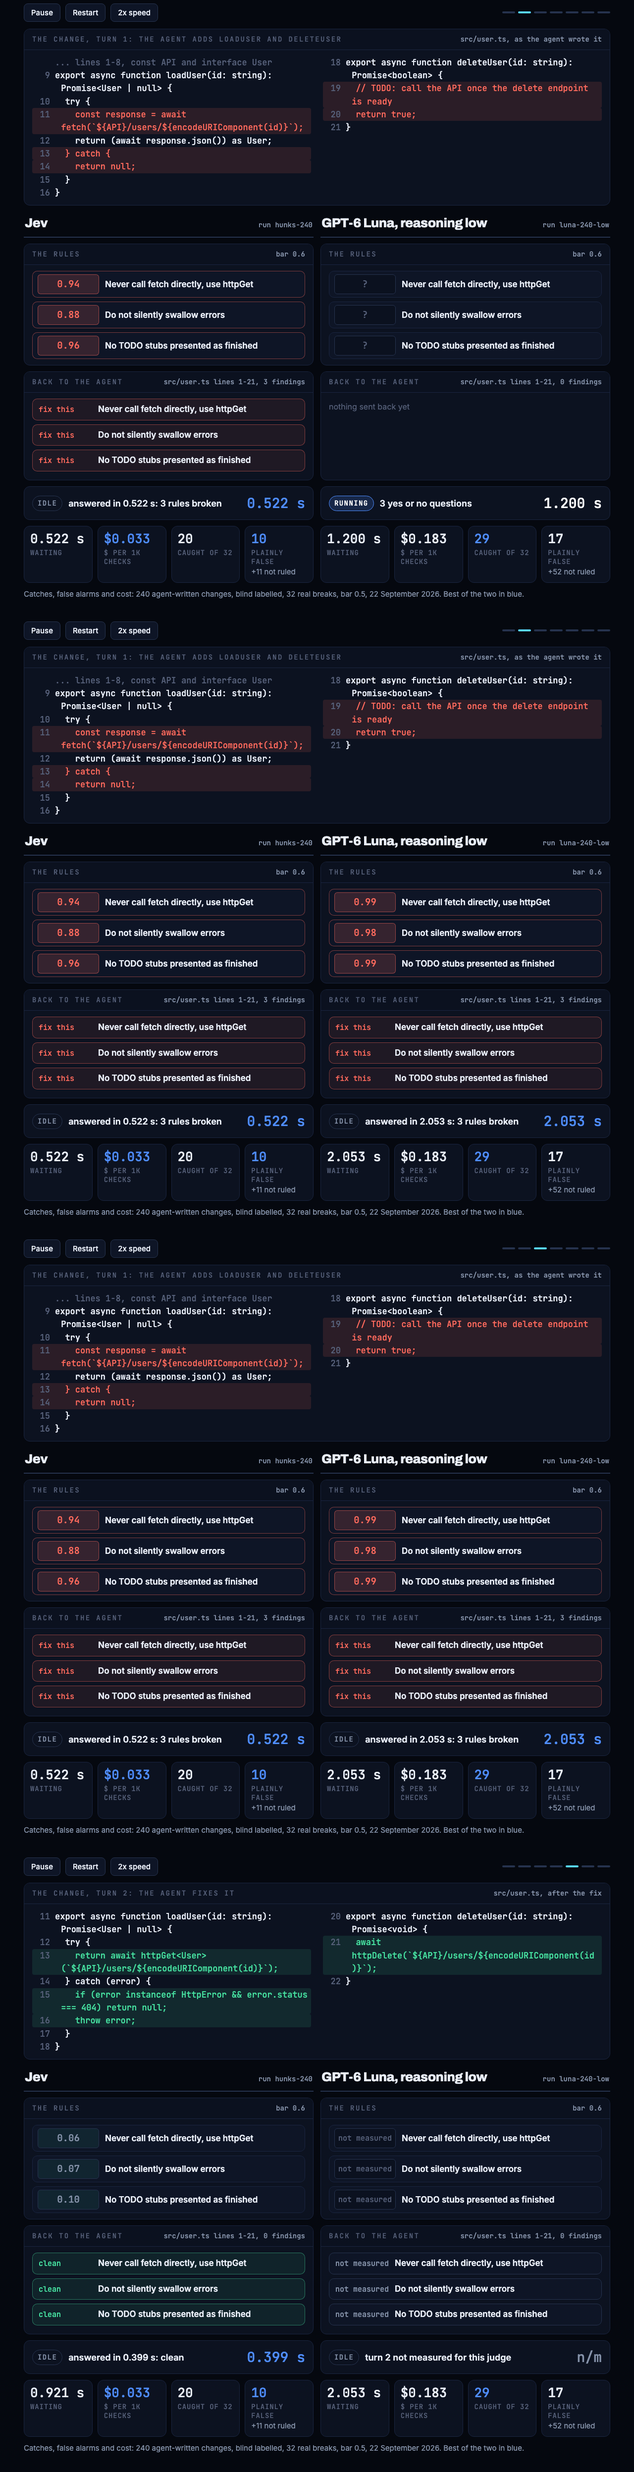
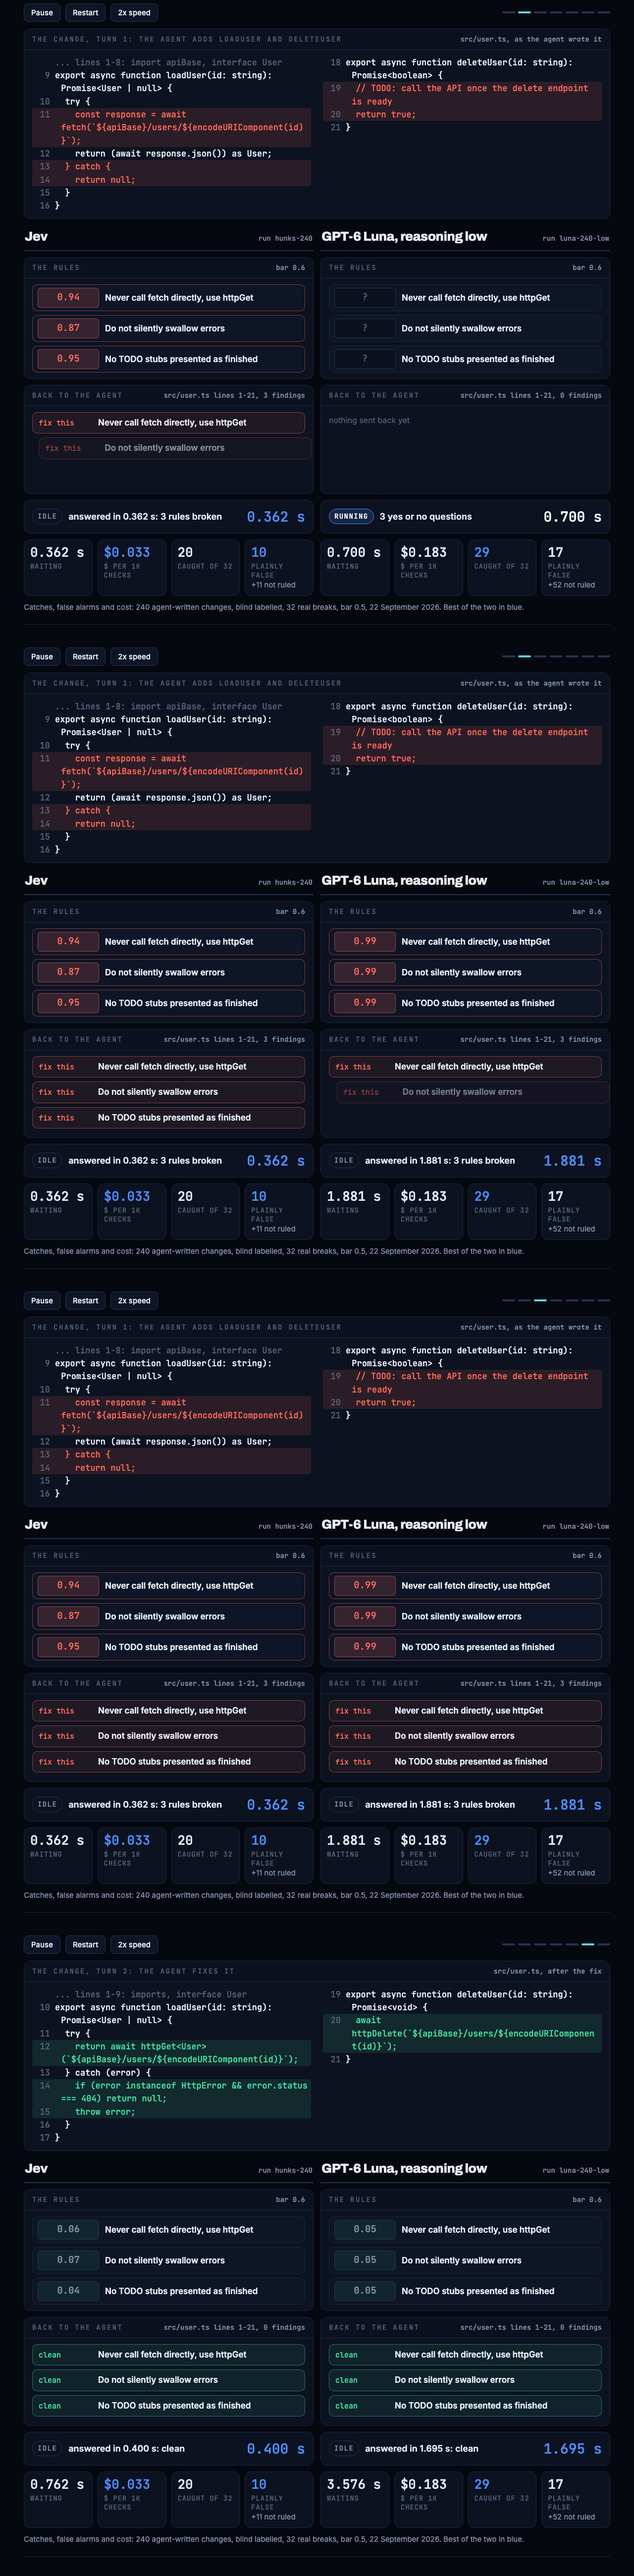
Demo page, GIF and stills rebuilt on the fixed turns
The two-way page now shows the current turns (the config import at the top, apiBase in every
URL, the 21-line repair) and takes every number from the regenerated summary.json, both turns
measured in one sitting at 20:46Z and 20:47Z: Jev answers in 0.362 s and 0.400 s, GPT-6 Luna
with low reasoning in 1.881 s and 1.695 s. The score chips are the per-rule medians of the 5
recorded runs (Jev 0.94, 0.87, 0.95 then 0.06, 0.07, 0.04; Luna 0.99 on all three, then 0.05
on all three). Luna's second turn is measured now, so its column reads clean like Jev's.

The GIF (one 21.4 s loop at 1x, 1280x1540) and the four stills are recaptured; the capture is
50 px taller because the new fetch line wraps once more. The demo README's numbers, latency
table and quality table are regenerated from the same file, and the rebuild note is removed.

diff --git a/examples/demo/page/index.html b/examples/demo/page/index.html
@@ -117,7 +117,7 @@ code{font-family:var(--mono);font-size:.92em}
 <script>
 (function(){
 "use strict";
-const D = {"bar":0.6,"piece":{"file":"src/user.ts","from":1,"to":21},"rules":["Never call fetch directly, use httpGet","Do not silently swallow errors","No TODO stubs presented as finished"],"change":{"from":9,"lines":["export async function loadUser(id: string): Promise<User | null> {","  try {","    const response = await fetch(`${API}/users/${encodeURIComponent(id)}`);","    return (await response.json()) as User;","  } catch {","    return null;","  }","}","","export async function deleteUser(id: string): Promise<boolean> {","  // TODO: call the API once the delete endpoint is ready","  return true;","}"],"bad":[11,13,14,19,20]},"fix":{"from":11,"lines":["export async function loadUser(id: string): Promise<User | null> {","  try {","    return await httpGet<User>(`${API}/users/${encodeURIComponent(id)}`);","  } catch (error) {","    if (error instanceof HttpError && error.status === 404) return null;","    throw error;","  }","}","","export async function deleteUser(id: string): Promise<void> {","  await httpDelete(`${API}/users/${encodeURIComponent(id)}`);","}"],"good":[13,15,16,21]},"models":[{"key":"jev","label":"Jev","judge":"Jev","run":"hunks-240","t1":{"ms":522,"scores":[0.94,0.88,0.96]},"t2":{"ms":398.9,"scores":[0.06,0.07,0.1]},"per1000":0.03294909251101322,"caught":20,"real":32,"plainlyFalse":10,"notRuled":11,"bar":0.5},{"key":"low","label":"GPT-6 Luna, reasoning low","judge":"GPT-6 Luna","run":"luna-240-low","t1":{"ms":2053,"scores":[0.99,0.98,0.99]},"t2":null,"per1000":0.18255124378109452,"caught":29,"real":32,"plainlyFalse":17,"notRuled":52,"bar":0.5}],"session":"2026-09-22T19:58:47.376Z","t2Session":"2026-09-22T20:10:39.749Z"};
+const D = {"bar":0.6,"piece":{"file":"src/user.ts","from":1,"to":21},"rules":["Never call fetch directly, use httpGet","Do not silently swallow errors","No TODO stubs presented as finished"],"change":{"from":9,"lines":["export async function loadUser(id: string): Promise<User | null> {","  try {","    const response = await fetch(`${apiBase}/users/${encodeURIComponent(id)}`);","    return (await response.json()) as User;","  } catch {","    return null;","  }","}","","export async function deleteUser(id: string): Promise<boolean> {","  // TODO: call the API once the delete endpoint is ready","  return true;","}"],"bad":[11,13,14,19,20],"gap":"lines 1-8: import apiBase, interface User"},"fix":{"from":10,"lines":["export async function loadUser(id: string): Promise<User | null> {","  try {","    return await httpGet<User>(`${apiBase}/users/${encodeURIComponent(id)}`);","  } catch (error) {","    if (error instanceof HttpError && error.status === 404) return null;","    throw error;","  }","}","","export async function deleteUser(id: string): Promise<void> {","  await httpDelete(`${apiBase}/users/${encodeURIComponent(id)}`);","}"],"good":[12,14,15,20],"gap":"lines 1-9: imports, interface User"},"models":[{"key":"jev","label":"Jev","judge":"Jev","run":"hunks-240","t1":{"ms":362.3,"scores":[0.94,0.87,0.95],"runsMs":[406.1,355.8,320,575.6,362.3],"runScores":[[0.94,0.87,0.95],[0.93,0.88,0.96],[0.94,0.87,0.95],[0.94,0.87,0.95],[0.93,0.87,0.95]]},"t2":{"ms":400.1,"scores":[0.06,0.07,0.04],"runsMs":[425.5,348.2,375.4,431.2,400.1],"runScores":[[0.06,0.07,0.04],[0.05,0.07,0.04],[0.06,0.07,0.04],[0.06,0.07,0.04],[0.06,0.07,0.04]]},"per1000":0.03294909251101322,"caught":20,"real":32,"plainlyFalse":10,"notRuled":11,"bar":0.5},{"key":"low","label":"GPT-6 Luna, reasoning low","judge":"GPT-6 Luna","run":"luna-240-low","t1":{"ms":1881,"scores":[0.99,0.99,0.99],"runsMs":[1602,1922,1857,1881,1887],"runScores":[[0.99,0.99,0.99],[0.99,0.99,0.99],[0.99,0.99,0.99],[0.99,0.98,0.99],[0.99,0.99,0.99]]},"t2":{"ms":1695,"scores":[0.05,0.05,0.05],"runsMs":[1759,1371,2455,1695,1539],"runScores":[[0.05,0.05,0.05],[0.05,0.05,0.05],[0.05,0.05,0.05],[0.05,0.05,0.05],[0.05,0.05,0.05]]},"per1000":0.18255124378109452,"caught":29,"real":32,"plainlyFalse":17,"notRuled":52,"bar":0.5}],"session":"2026-09-22T20:46:23.017Z","t2Session":"2026-09-22T20:47:10.051Z"};
 const $ = id => document.getElementById(id);
 const esc = s => s.replace(/&/g,"&amp;").replace(/</g,"&lt;").replace(/>/g,"&gt;");
 const J = D.models;
@@ -187,7 +187,7 @@ function render(){
   $("fname").textContent = D.piece.file + (turn2 ? ", after the fix" : ", as the agent wrote it");
   const blk = turn2 ? D.fix : D.change, marks = turn2 ? D.fix.good : D.change.bad, cls = turn2 ? "good" : "bad";
   const [a, b] = split(blk);
-  $("codeA").innerHTML = codeHTML(a, marks, cls, turn2 ? "" : "... lines 1-8, const API and interface User");
+  $("codeA").innerHTML = codeHTML(a, marks, cls, "... " + blk.gap);
   $("codeB").innerHTML = codeHTML(b, marks, cls, "");
   const loc = `${D.piece.file} lines ${D.piece.from}-${D.piece.to}`;
 
@@ -272,10 +272,9 @@ $("restart").addEventListener("click", () => { t = 0; playing = true; syncButton
 $("speed").addEventListener("click", () => { speed = speed === 2 ? 1 : 2; syncButtons(); });
 $("source").textContent = "Catches, false alarms and cost: 240 agent-written changes, blind labelled, " + J[0].real
   + " real breaks, bar " + J[0].bar + ", 22 September 2026. Best of the two in blue.";
-$("foot").innerHTML = "Every number here is measured. Turn 1 times are each judge's median of 5 calls on this piece ("
-  + D.session.slice(11, 16) + "Z); Jev's turn 2 time is a median of 5 calls on the repaired piece (" + D.t2Session.slice(11, 16)
-  + "Z). GPT-6 Luna was never asked about the repaired piece, so its turn 2 is marked not measured. Jev reported <code>jev-1.13.0</code>; "
-  + "GPT-6 Luna ran as <code>gpt-6-luna</code> with low reasoning. The agent's two turns are scripted. "
+$("foot").innerHTML = "Every number here is measured. Both turns' times are each judge's median of 5 calls on that piece, measured in one sitting ("
+  + D.session.slice(11, 16) + "Z and " + D.t2Session.slice(11, 16) + "Z); each score chip is the median of the same 5 calls. "
+  + "Jev reported <code>jev-1.13.0</code>; GPT-6 Luna ran as <code>gpt-6-luna</code> with low reasoning, asked for a probability per rule. The agent's two turns are scripted. "
   + 'Source and every run: <a href="https://github.com/haystackeditor/stop-rules">github.com/haystackeditor/stop-rules</a>.';
 window.__demo = {
   seek(ms){ recording = true; playing = false; t = ms; syncButtons(); render(); return TL.total; },

diff --git a/examples/demo/README.md b/examples/demo/README.md
@@ -9,11 +9,10 @@ judge answers, the findings it sends back to the agent, a status line with a tim
 numbers.
 
 In turn 1 the agent adds `src/user.ts` with a direct `fetch`, a catch that drops the error and a
-TODO stub. Both judges start at the same instant. Jev answers in 0.522 s and GPT-6 Luna in
-2.053 s, and both score all three rules at or above the 0.6 bar, so three findings go back.
+TODO stub. Both judges start at the same instant. Jev answers in 0.362 s and GPT-6 Luna in
+1.881 s, and both score all three rules at or above the 0.6 bar, so three findings go back.
 In turn 2 the agent rewrites the piece with the project's `httpGet` helper. Jev answers in
-0.399 s and scores it clean. GPT-6 Luna was never asked about the repaired piece in any recorded
-run, so its column says "not measured" for turn 2 instead of showing a verdict.
+0.400 s and GPT-6 Luna in 1.695 s, and both score it clean.
 
 The four numbers under each column are the time spent waiting on the judge, its cost per 1,000
 checks, and how many of 32 real breaks it caught and how many plainly false alarms it raised on
@@ -24,34 +23,32 @@ The GIF above is one loop at 1x (21.4 s). The page itself is [`page/index.html`]
 open it in a browser for Pause, Restart and 2x speed. It loads Haystack's fonts from a `fonts/`
 folder next to it, which is not in this repository, so a clone shows the system fonts instead.
 [`stop-rules-demo.png`](stop-rules-demo.png) is four stills of the page: Jev done while GPT-6
-Luna is still running, both judged, both handed back, and turn 2.
-
-> **Being rebuilt.** The GIF, the stills, `page/index.html` and the timing and turn scores in
-> "Where each number on the page comes from" and "The latency" below were made from the previous
-> version of the two turns, which hardcoded a placeholder address. The findings and verification
-> runs in "The findings" are for the current turns. The page and its numbers will be rebuilt from
-> new timings on the current turns.
+Luna is still running, both judged, both handed back, and turn 2 clean.
 
 ## Where each number on the page comes from
 
-Every number is written into the page when it is built, read from these files, not typed in:
+Every number is written into the page when it is built, read from the comparison's
+`summary.json` (`reports/2026-09-22-jev-vs-luna/` in the workbench), not typed in. The two turns
+were timed and scored in one sitting at 20:46Z and 20:47Z on 22 September 2026, on this demo at
+commit a7ba284, 5 calls per judge per turn after one warm-up.
 
-| On the page | Jev | GPT-6 Luna, reasoning low | Source |
+| On the page | Jev | GPT-6 Luna, reasoning low | Source in `summary.json` |
 |---|---|---|---|
-| turn 1 scores, by rule (fetch, errors, stub) | 0.94, 0.88, 0.96 | 0.99, 0.98, 0.99 | Jev: the `stop-rules check` report quoted under "The findings" below. Luna: the comparison's `demo-latency.json`, the call whose time is the median |
-| turn 1 time | 0.522 s | 2.053 s | `demoTurn` in the comparison's `summary.json`, median of 5 calls on this piece, the call alone |
-| turn 2 scores | 0.06, 0.07, 0.10 | not measured | Jev's answers to `stop-rules score` on the repaired piece; no file holds Luna's |
-| turn 2 time | 0.399 s | not measured | 5 timed calls to Jev on the repaired piece at 20:10Z: 357.0, 570.1, 398.9, 357.7 and 424.8 ms, after one warm-up |
-| $ per 1,000 checks | $0.033 | $0.183 | the judge's run in `summary.json`: `hunks-240` and `luna-240-low` |
+| turn 1 scores (fetch, errors, stub) | 0.94, 0.87, 0.95 | 0.99, 0.99, 0.99 | `demoTurn`, the per-rule median of the 5 `broken` runs |
+| turn 1 time | 0.362 s | 1.881 s | `demoTurn`, `broken.callMedianMs`, the call alone |
+| turn 2 scores | 0.06, 0.07, 0.04 | 0.05, 0.05, 0.05 | `demoTurn`, the per-rule median of the 5 `repaired` runs |
+| turn 2 time | 0.400 s | 1.695 s | `demoTurn`, `repaired.callMedianMs` |
+| $ per 1,000 checks | $0.033 | $0.183 | runs `hunks-240` and `luna-240-low` |
 | real breaks caught, of 32 | 20 | 29 | same runs, bar 0.5 |
 | plainly false, and not ruled | 10, +11 | 17, +52 | same runs |
 
-- **Rule order.** Both judges answer `q0_0`, `q0_1` and `q0_2` in the order the rules appear in
-  `.stop-rules.md`, and the page maps them in that order. Jev's turn 2 answers confirm it: its
-  `score` output printed the stub rule at 0.10, the error rule at 0.07 and the `fetch` rule at
-  0.06, which are `q0_2`, `q0_1` and `q0_0`.
-- **The bar.** The catches and false alarms are at the comparison's bar of 0.5. The demo runs
-  at the tool's default of 0.6, and the source line under the columns says so.
+- **Rule order.** Both judges answer `q0_0`, `q0_1` and `q0_2`, which `summary.json` maps to the
+  rules in the order they appear in `.stop-rules.md`: the `fetch` rule, the errors rule, the stub
+  rule. The page checks that mapping against the rule text when it is built.
+- **Question form.** GPT-6 Luna is asked the same question as Jev, a probability per rule. The
+  comparison also measured a review form (findings with the quoted line); the page does not show it.
+- **The bar.** The catches and false alarms are at the comparison's bar of 0.5. The demo runs at
+  the tool's default of 0.6, and the source line under the columns says so.
 - **Not ruled.** These are flags no reviewer has ruled on yet. They are neither confirmed breaks
   nor confirmed false alarms.
 
@@ -159,33 +156,29 @@ Fix each one. If a rule truly should not apply here, leave the code and tell the
 
 ## The latency
 
-The turn 1 timer races the judges on the same piece of `src/user.ts` and the same three rules,
-each asked the three yes or no questions at once: 5 timed runs per row, after one warm-up
-run that was not counted. The page uses the second session, so every turn 1 time on it comes
-from one sitting. Both sessions are here because latency moves by the hour: 47 minutes
-apart, every call median was higher in the second session and the end-to-end median lower.
+Every row is 5 timed runs after one warm-up, both turns in one sitting (20:46Z and 20:47Z,
+22 September 2026). "The call alone" is the time from sending the request to the last byte of
+the answer. The GPT-6 Luna rows are one Responses API call each, with strict JSON output, asking
+the same three questions about the same piece. The end-to-end row is the wall time of the
+whole `stop-rules check` process with the answer cache deleted first: git, Node startup,
+cutting the change, the Jev call and printing the report. The page shows the call alone.
 
-| Model type | Session (22 Sep 2026) | Run 1 | Run 2 | Run 3 | Run 4 | Run 5 | Median |
-|---|---|---|---|---|---|---|---|
-| Jev `jev-1.13.0`, the call alone | 19:11Z | 0.338 | 0.429 | 0.400 | 0.332 | 0.329 | **0.338 s** |
-| Jev `jev-1.13.0`, the call alone | 19:58Z | 0.407 | 0.579 | 0.482 | 0.564 | 0.522 | **0.522 s** |
-| GPT-6 Luna, reasoning none | 19:11Z | 1.135 | 1.039 | 1.363 | 1.010 | 0.923 | **1.039 s** |
-| GPT-6 Luna, reasoning none | 19:58Z | 1.665 | 1.352 | 2.565 | 2.769 | 1.571 | **1.665 s** |
-| GPT-6 Luna, reasoning low | 19:11Z | 1.427 | 2.682 | 1.547 | 1.514 | 1.728 | **1.547 s** |
-| GPT-6 Luna, reasoning low | 19:58Z | 1.904 | 4.729 | 1.917 | 3.621 | 2.053 | **2.053 s** |
-| GPT-6 Luna, reasoning medium | 19:11Z | not measured | | | | | not measured |
-| GPT-6 Luna, reasoning medium | 19:58Z | 2.695 | 2.008 | 2.339 | 4.134 | 3.684 | **2.695 s** |
-| Jev, `stop-rules check` end to end | 19:11Z | 0.855 | 0.764 | 0.671 | 0.812 | 0.783 | **0.783 s** |
-| Jev, `stop-rules check` end to end | 19:58Z | 0.564 | 0.668 | 0.610 | 0.634 | 0.752 | **0.634 s** |
+| Judge, turn | Run 1 | Run 2 | Run 3 | Run 4 | Run 5 | Median |
+|---|---|---|---|---|---|---|
+| Jev `jev-1.13.0`, broken turn, the call alone | 0.406 | 0.356 | 0.320 | 0.576 | 0.362 | **0.362 s** |
+| Jev `jev-1.13.0`, repaired turn, the call alone | 0.425 | 0.348 | 0.375 | 0.431 | 0.400 | **0.400 s** |
+| GPT-6 Luna, reasoning none, broken turn, the call alone | 2.098 | 1.120 | 1.668 | 2.281 | 1.397 | **1.668 s** |
+| GPT-6 Luna, reasoning none, repaired turn, the call alone | 1.283 | 1.379 | 1.154 | 1.147 | 1.492 | **1.283 s** |
+| GPT-6 Luna, reasoning low, broken turn, the call alone | 1.602 | 1.922 | 1.857 | 1.881 | 1.887 | **1.881 s** |
+| GPT-6 Luna, reasoning low, repaired turn, the call alone | 1.759 | 1.371 | 2.455 | 1.695 | 1.539 | **1.695 s** |
+| GPT-6 Luna, reasoning medium, broken turn, the call alone | 2.184 | 2.154 | 2.995 | 4.824 | 2.047 | **2.184 s** |
+| GPT-6 Luna, reasoning medium, repaired turn, the call alone | 1.654 | 2.216 | 1.882 | 3.257 | 1.954 | **1.954 s** |
+| Jev, broken turn, `stop-rules check` end to end | 0.671 | 0.612 | 0.635 | 0.580 | 0.663 | **0.635 s** |
+| Jev, repaired turn, `stop-rules check` end to end | 0.686 | 0.542 | 0.705 | 0.834 | 0.653 | **0.686 s** |
 
-- "The call alone" is the time from sending the request to the last byte of the answer.
-- The GPT-6 Luna rows are one Responses API call each, with strict JSON output, asking the
-  same three questions about the same piece.
-- The end-to-end rows are the wall time of the whole check process, answer cache deleted
-  first: git, Node startup, cutting the change, the Jev call and printing the report. The
-  page does not show it; it is here for what a whole stop hook takes on this piece.
-- This does not include the time Claude Code takes to wake the agent with the report, which
-  was not measured.
+Earlier sessions the same day, on the previous version of the two turns, gave different
+medians (Jev 0.338 s and 0.522 s, GPT-6 Luna low 1.547 s and 2.053 s on the broken turn); latency
+moves by the hour, which is why the page takes both turns from one sitting.
 
 ## Quality and cost
 
@@ -194,12 +187,12 @@ The scoreboard's last two cells. Every value is read from the comparison's `summ
 judged the same 240 agent-written changes against the same six rules, blind labelled, at the
 bar the file states.
 
-| Model type | Run | Demo turn median | Caught | Plainly false | Arguable | Not ruled | $ per 1,000 checks | Context sent |
+| Model type | Run | Demo turn median (broken turn) | Caught | Plainly false | Arguable | Not ruled | $ per 1,000 checks | Context sent |
 |---|---|---|---|---|---|---|---|---|
-| Jev `jev-1.13.0` | `hunks-240` | 0.522 s | 20 of 32 | 10 | 5 | 11 | $0.033 | hunks |
-| GPT-6 Luna, reasoning none | `luna-240-none` | 1.665 s | 23 of 32 | 10 | 5 | 28 | $0.119 | piece |
-| GPT-6 Luna, reasoning low | `luna-240-low` | 2.053 s | 29 of 32 | 17 | 9 | 52 | $0.183 | piece |
-| GPT-6 Luna, reasoning medium | `luna-240-medium` | 2.695 s | 30 of 32 | 18 | 11 | 62 | $0.227 | piece |
+| Jev `jev-1.13.0` | `hunks-240` | 0.362 s | 20 of 32 | 10 | 5 | 11 | $0.033 | hunks |
+| GPT-6 Luna, reasoning none | `luna-240-none` | 1.668 s | 23 of 32 | 10 | 5 | 28 | $0.119 | piece |
+| GPT-6 Luna, reasoning low | `luna-240-low` | 1.881 s | 29 of 32 | 17 | 9 | 52 | $0.183 | piece |
+| GPT-6 Luna, reasoning medium | `luna-240-medium` | 2.184 s | 30 of 32 | 18 | 11 | 62 | $0.227 | piece |
 | GPT-6 Luna, reasoning low, 25 lines of context | `luna-240-window-low` | not measured | 29 of 32 | 14 | 9 | 28 | $0.225 | window |
 
 - The bar for every row is 0.5, and there are 32 real breaks. The file's own note: the current labels and
